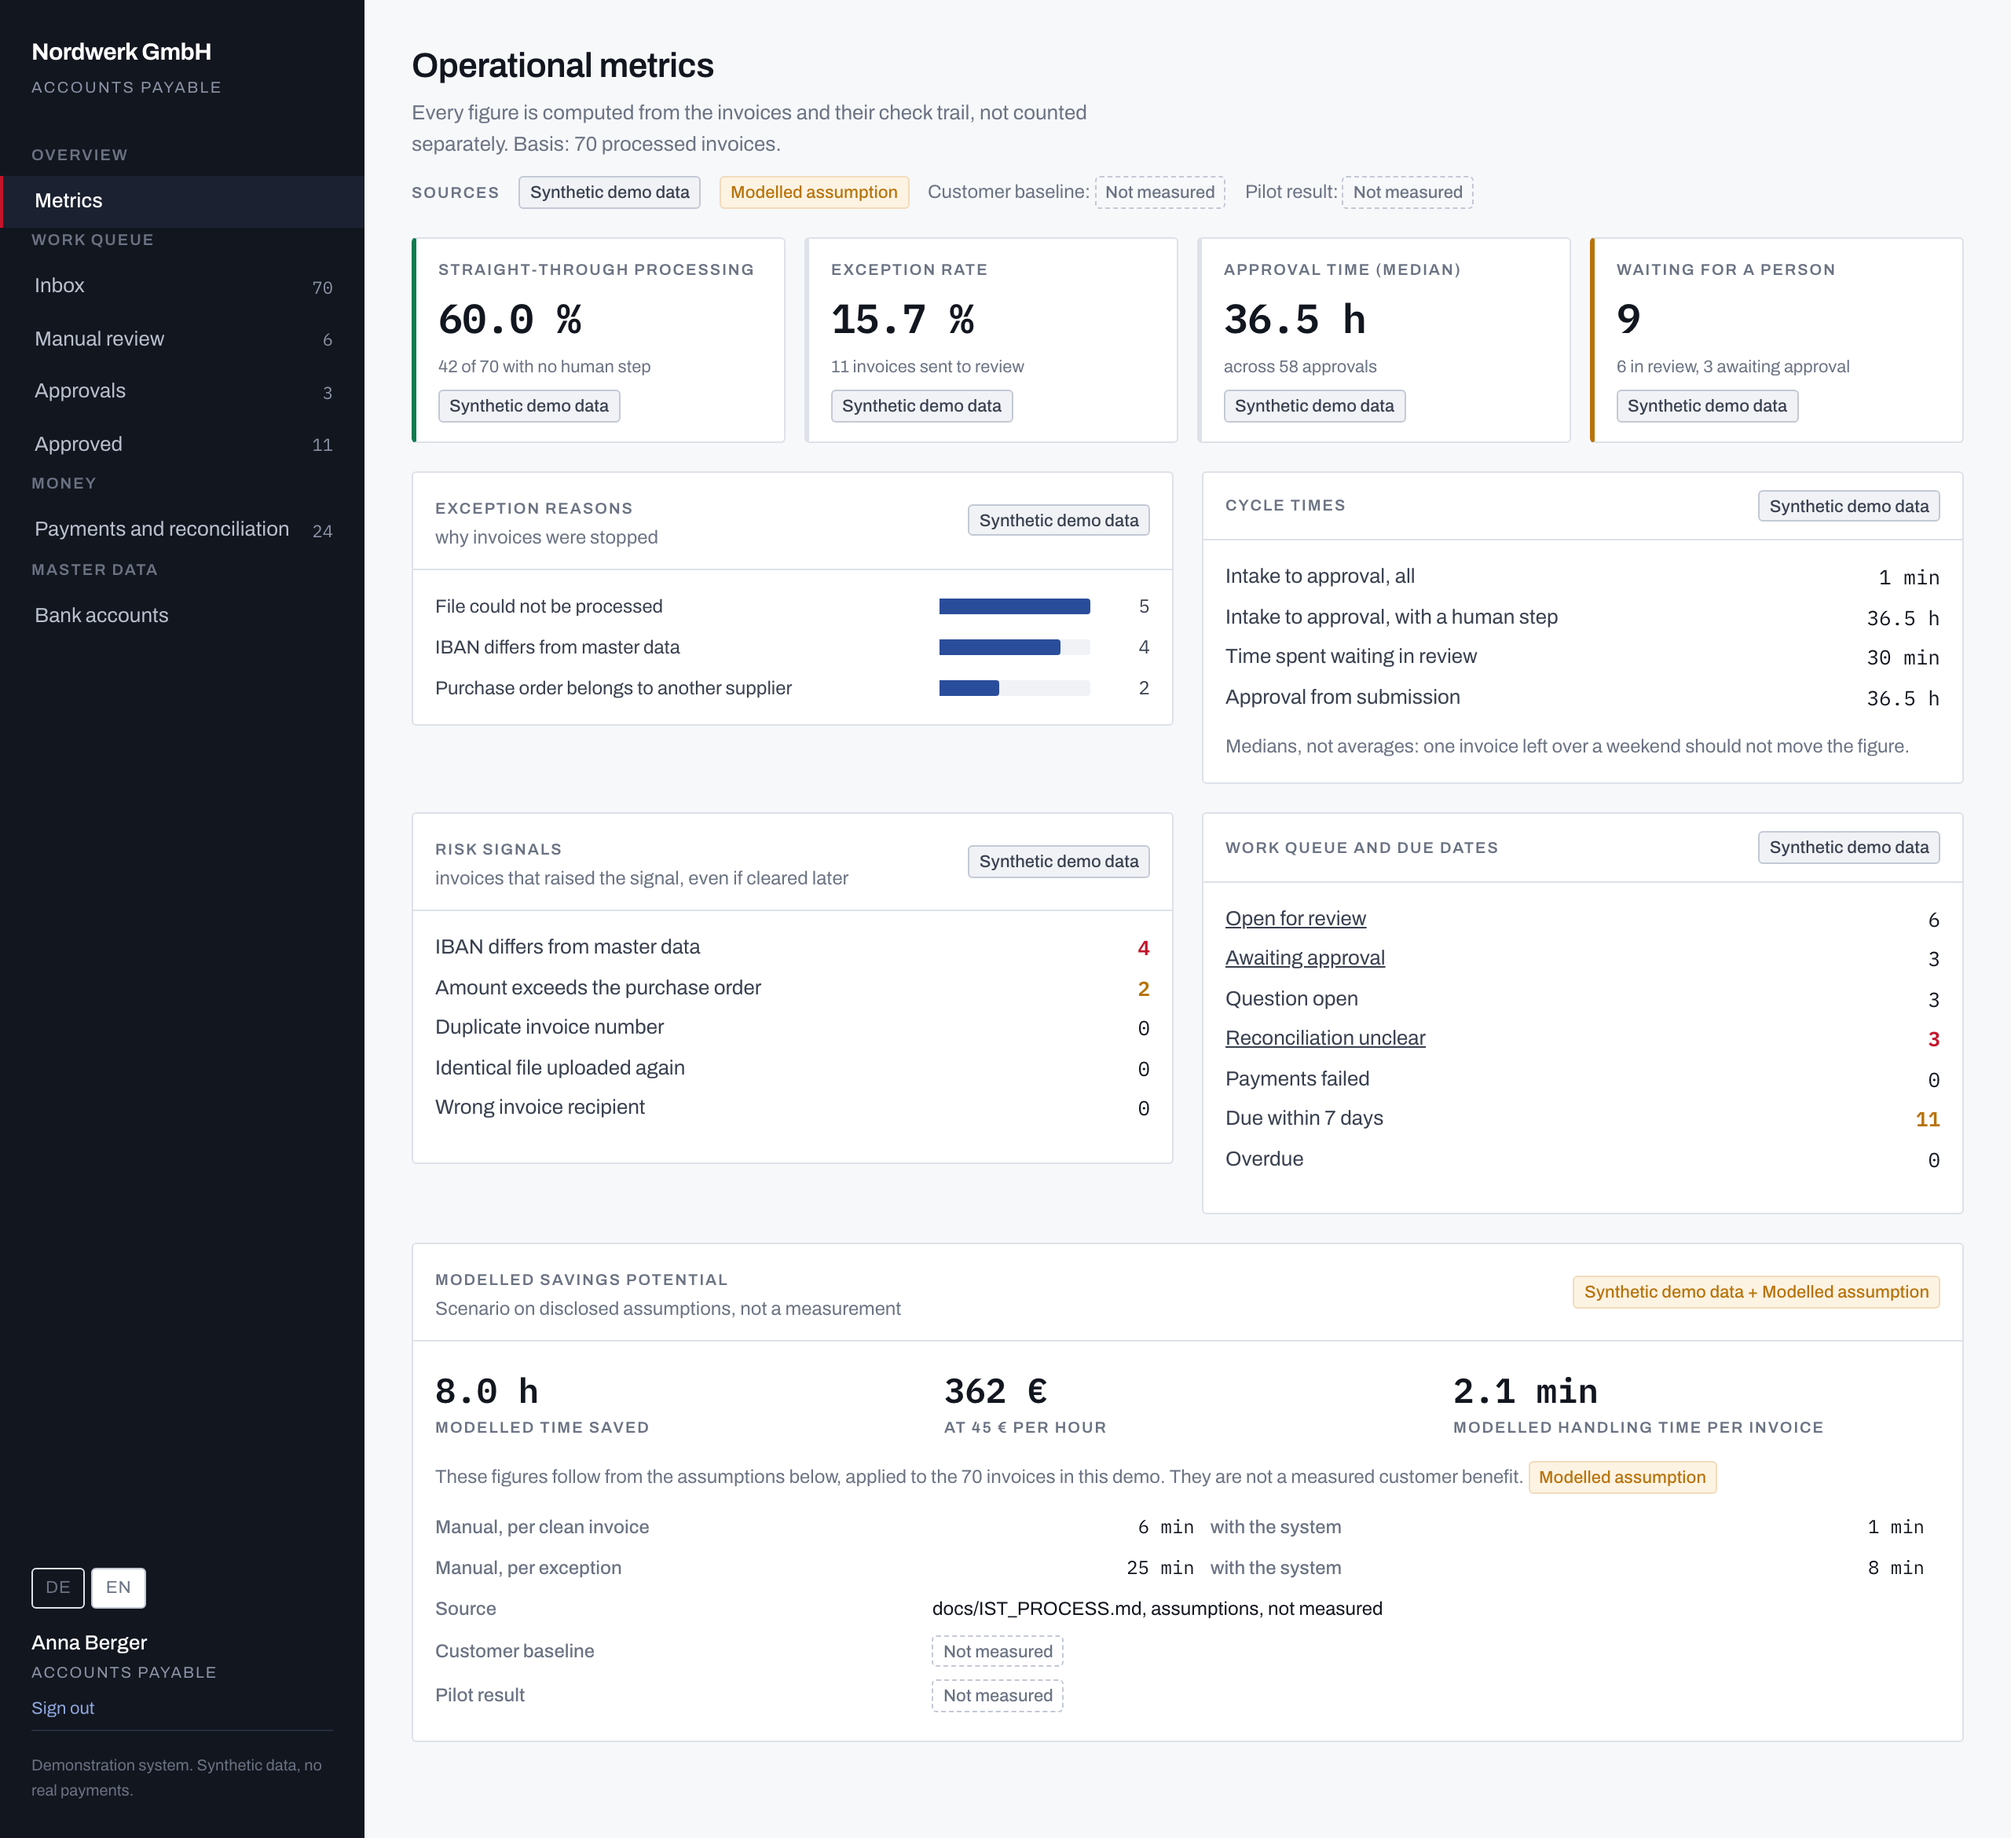
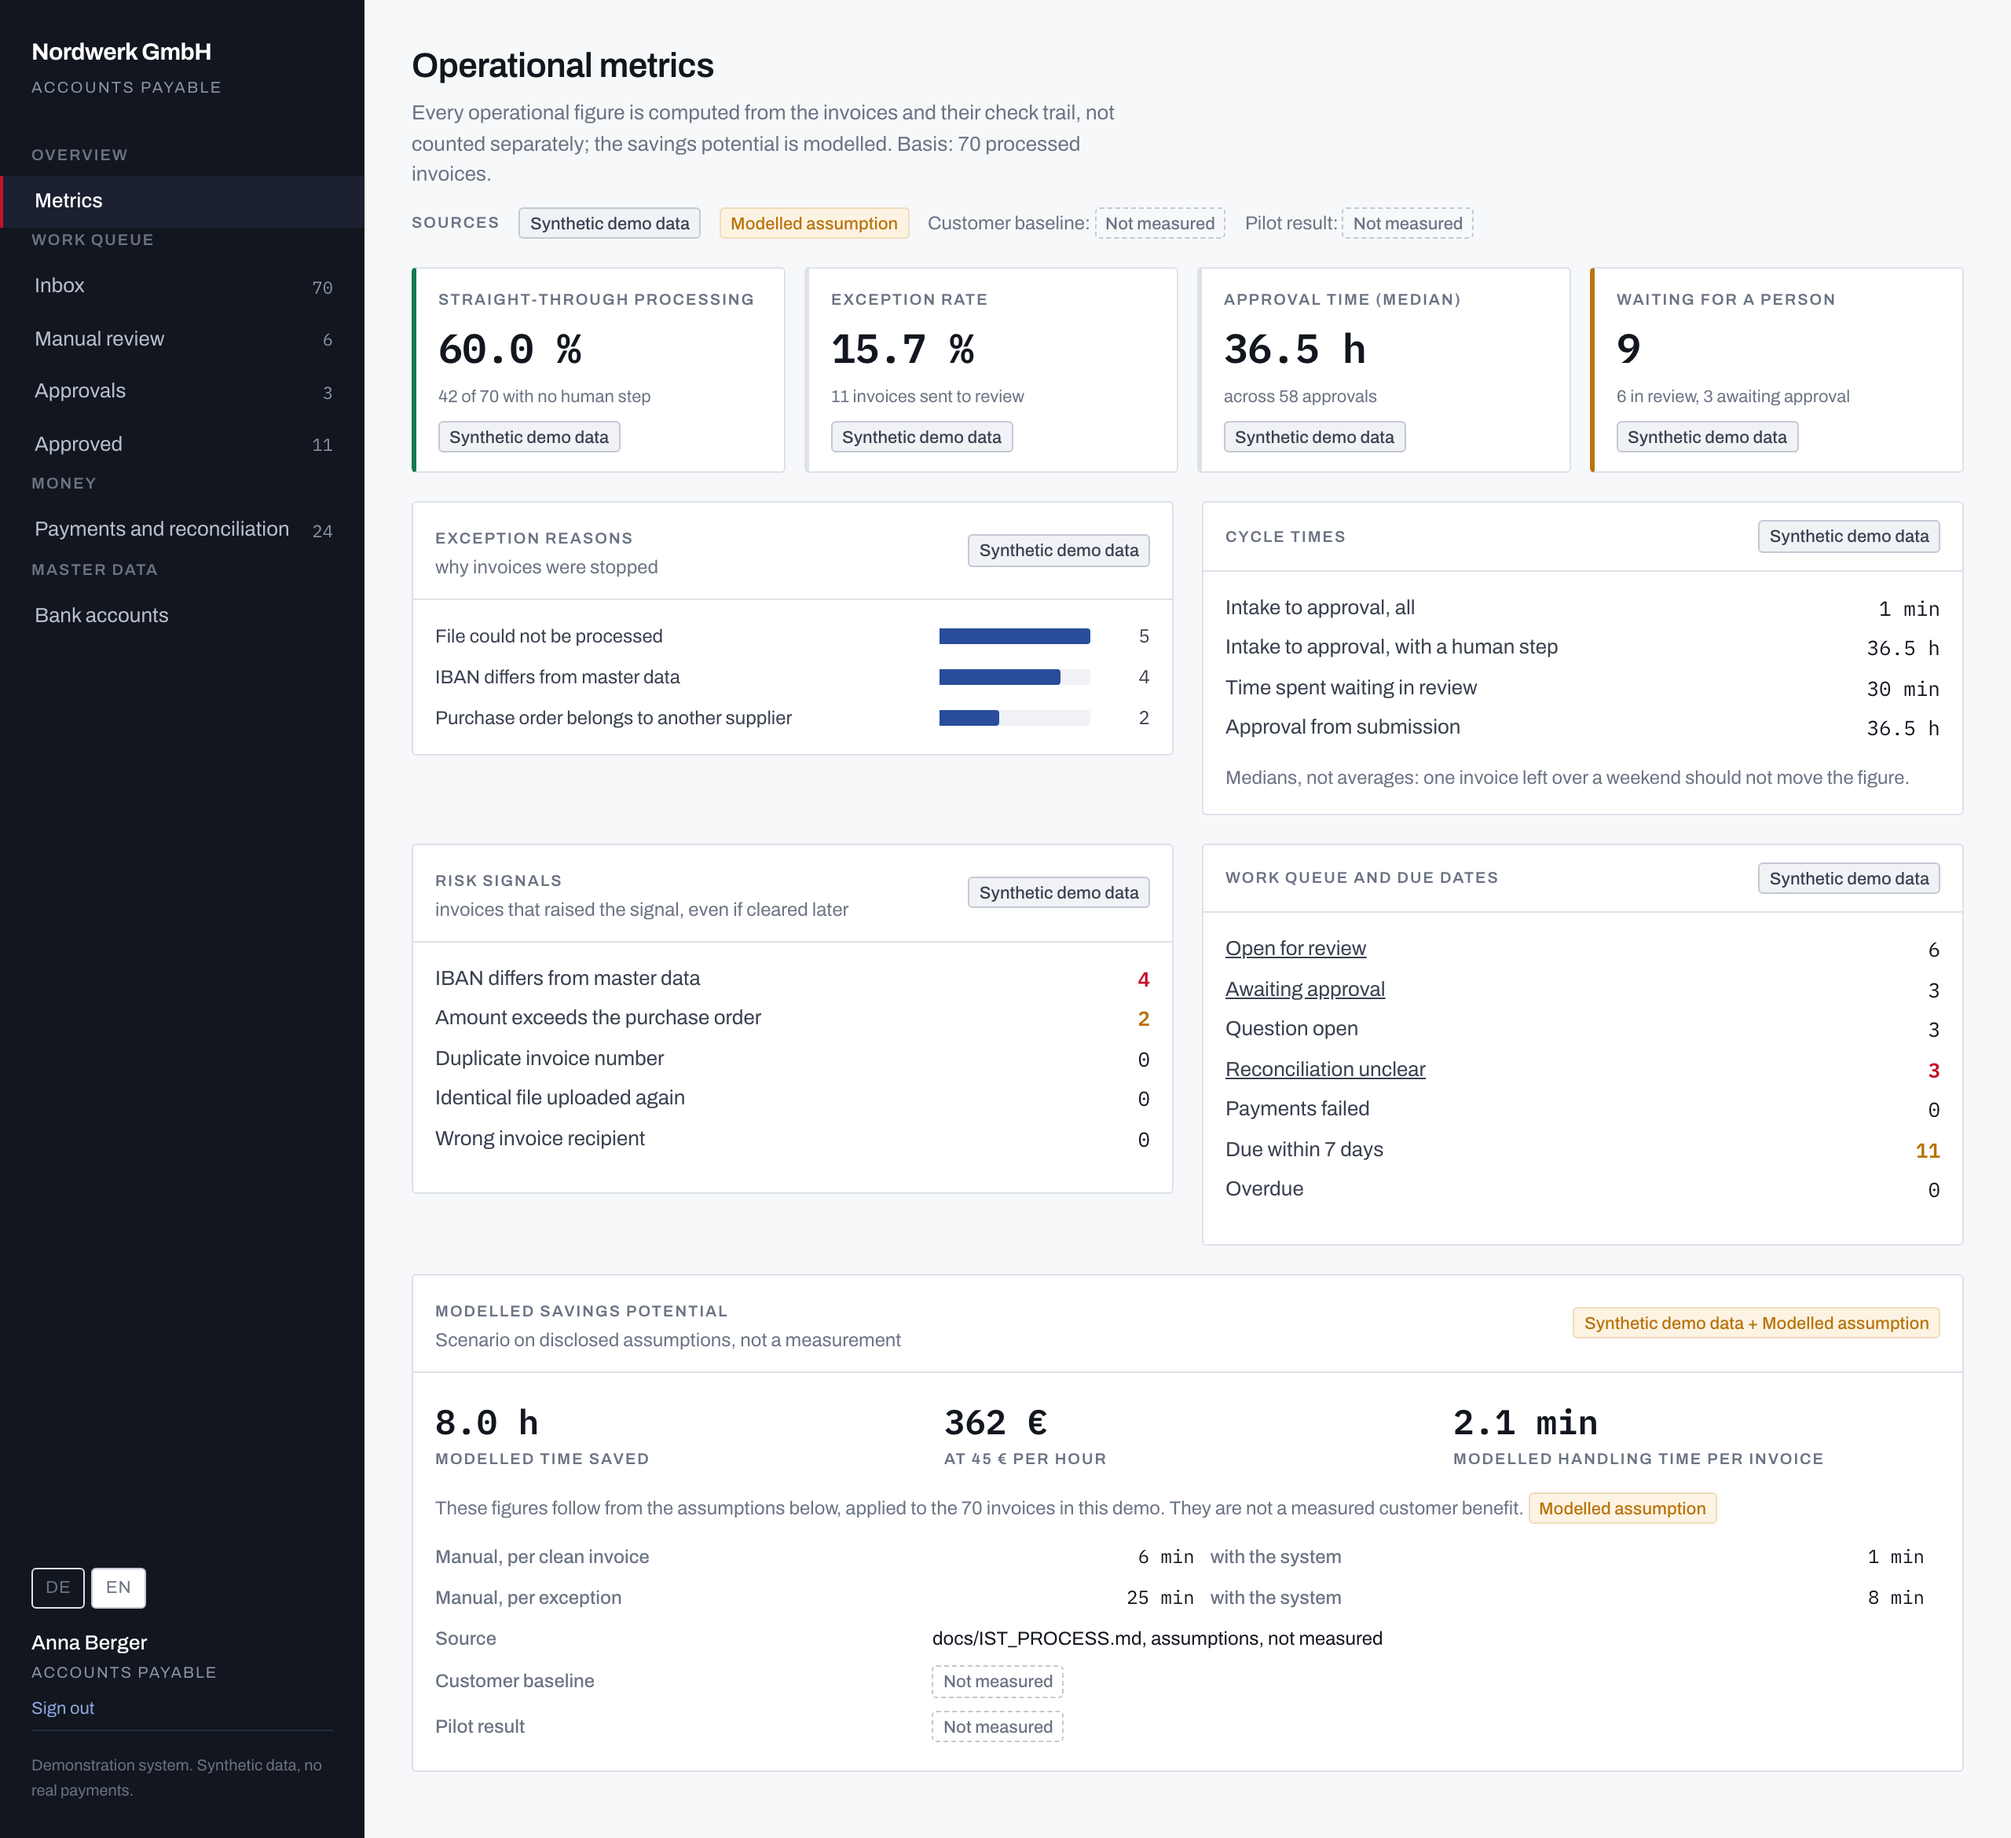
fix: the metrics lead no longer says every figure is computed from invoices
The savings on the same page rest on assumptions, so "every figure" claimed
too much. It now says every operational figure, and that the savings
potential is modelled; README and the demo narration follow.

diff --git a/client/src/lib/dictionaries.js b/client/src/lib/dictionaries.js
@@ -196,7 +196,7 @@ const de = {
     kpiAssumption: "Szenario auf offengelegten Annahmen, keine Messung",
     kpiWrongRecipient: "Falscher Rechnungsempfänger",
     kpiPoOverrun: "Betrag überschreitet die Bestellung",
-    kpiLead: (processed) => `Alle Werte sind aus den Rechnungen und ihrem Prüfprotokoll berechnet, nicht separat gezählt. Grundlage: ${processed} verarbeitete Rechnungen.`,
+    kpiLead: (processed) => `Alle Betriebskennzahlen sind aus den Rechnungen und ihrem Prüfprotokoll berechnet, nicht separat gezählt; das Einsparpotenzial ist modelliert. Grundlage: ${processed} verarbeitete Rechnungen.`,
     kpiApprovalMedian: "Freigabedauer (Median)",
     kpiWaitingPerson: "Wartet auf eine Person",
     kpiStpNote: (n, total) => `${n} von ${total} ohne menschlichen Eingriff`,
@@ -702,7 +702,7 @@ const en = {
     kpiAssumption: "Scenario on disclosed assumptions, not a measurement",
     kpiWrongRecipient: "Wrong invoice recipient",
     kpiPoOverrun: "Amount exceeds the purchase order",
-    kpiLead: (processed) => `Every figure is computed from the invoices and their check trail, not counted separately. Basis: ${processed} processed invoices.`,
+    kpiLead: (processed) => `Every operational figure is computed from the invoices and their check trail, not counted separately; the savings potential is modelled. Basis: ${processed} processed invoices.`,
     kpiApprovalMedian: "Approval time (median)",
     kpiWaitingPerson: "Waiting for a person",
     kpiStpNote: (n, total) => `${n} of ${total} with no human step`,

diff --git a/README.md b/README.md
@@ -45,8 +45,9 @@ are recorded in `docs/PHASE_0_INDEPENDENT_REVIEW.md` and
 
 ![The operational metrics view, showing straight-through processing rate, exception reasons, cycle times, risk signals, the work queue and the modelled savings, each figure tagged with its source](docs/screenshots/dashboard.png)
 
-The metrics view after a demo run of 70 synthetic invoices. Every figure is
-derived from the invoices and their check trail rather than counted separately.
+The metrics view after a demo run of 70 synthetic invoices. Every operational
+figure is derived from the invoices and their check trail rather than counted
+separately; the savings are modelled, and each figure is tagged with its source.
 The interface is German by default and switches to English.
 
 ## What is worth looking at
@@ -374,7 +375,7 @@ The same seed produces the same invoices, amounts and relative timings. The
 dates are not fixed: the month ends today, so regenerating on another day
 shifts them and rewrites the committed statement. The data is synthetic.
 
-Every dashboard figure is computed from the invoices and their audit events.
+Every operational figure is computed from the invoices and their audit events.
 There is no counter to drift. Each figure names its source: synthetic demo
 data, a modelled assumption, or both. The savings panel is a modelled
 potential, not a measured benefit. Customer baseline and pilot result read

diff --git a/docs/DEMO.md b/docs/DEMO.md
@@ -226,8 +226,8 @@ as a reason of its own, once. The ranking counts every return to review by its
 recorded reason, and that return records the comment. It is a known flaw of the
 ranking, not of the bank-account step; if asked, say so.
 
-> "Every figure is computed from the invoices and their check trail, not
-> counted separately."
+> "Every operational figure is computed from the invoices and their check
+> trail, not counted separately."
 
 Under the title, **Sources** lists the four kinds of number. Every figure
 carries its tag: the operational figures say **Synthetic demo data**, and
